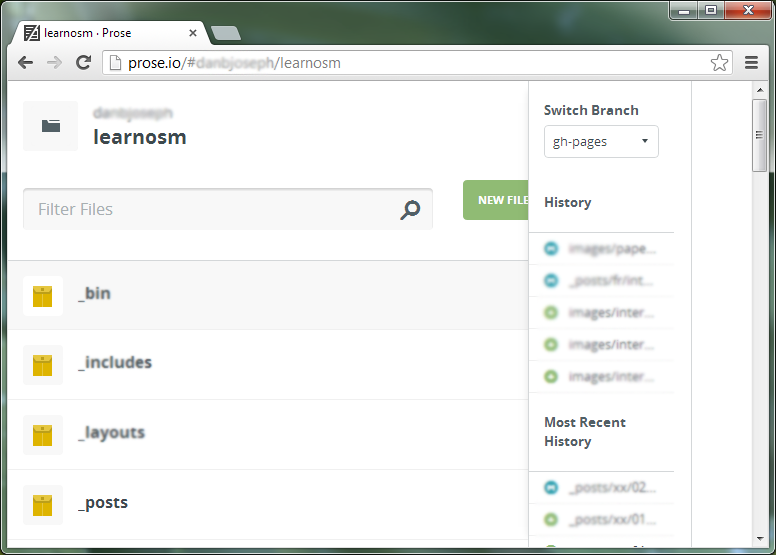
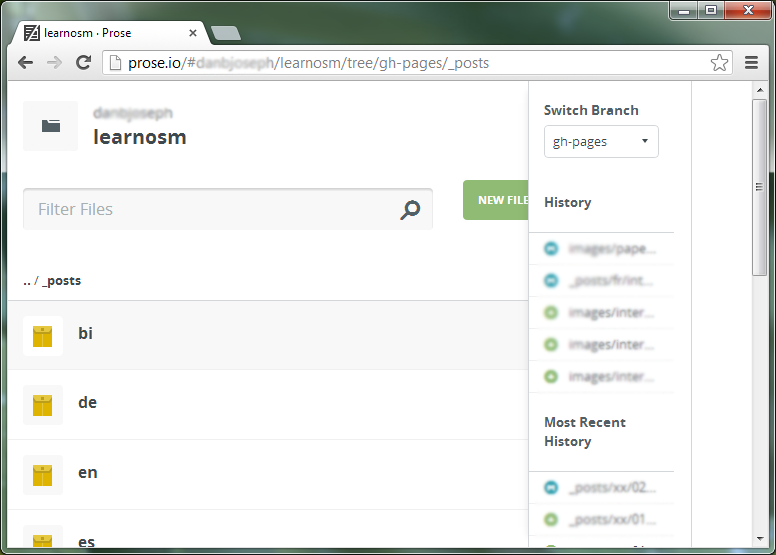
updated translator workflow
(new prose rooturl on learnosm eliminated a step)

diff --git a/TranslationWorkflow_LearnOSM/translatorWorkflow.md b/TranslationWorkflow_LearnOSM/translatorWorkflow.md
@@ -44,10 +44,7 @@ Navigating to LearnOSM Content Pages on Prose
 
 ![](https://raw.github.com/AmericanRedCross/Guides/master/TranslationWorkflow_LearnOSM/img/prose_nav03.png)
 
-- After opening the 'learnosm' folder, open the '_posts' folder by clicking on it
-
-![](https://raw.github.com/AmericanRedCross/Guides/master/TranslationWorkflow_LearnOSM/img/prose_nav04.png)
-
+- You should be directed to the '_posts' folder
 - The folders on the page hold the different translations
 	- 'bi' is Bahasa Indonesia 
     - 'en' is English
@@ -55,12 +52,12 @@ Navigating to LearnOSM Content Pages on Prose
 - The GitHubber team member will let you know the code for your target language 
 - Scroll down to find the folder for your language and open it by clicking on it
 
-![](https://raw.github.com/AmericanRedCross/Guides/master/TranslationWorkflow_LearnOSM/img/prose_nav05.png)
+![](https://raw.github.com/AmericanRedCross/Guides/master/TranslationWorkflow_LearnOSM/img/prose_nav04.png)
 
 - The page will display all the core content pages of learnOSM
 - Scroll down to find the page assigned to you
 
-![](https://raw.github.com/AmericanRedCross/Guides/master/TranslationWorkflow_LearnOSM/img/prose_nav06.png)
+![](https://raw.github.com/AmericanRedCross/Guides/master/TranslationWorkflow_LearnOSM/img/prose_nav05.png)
 
 Translating a LearnOSM Content Page on Prose
 --------------------------------------------
